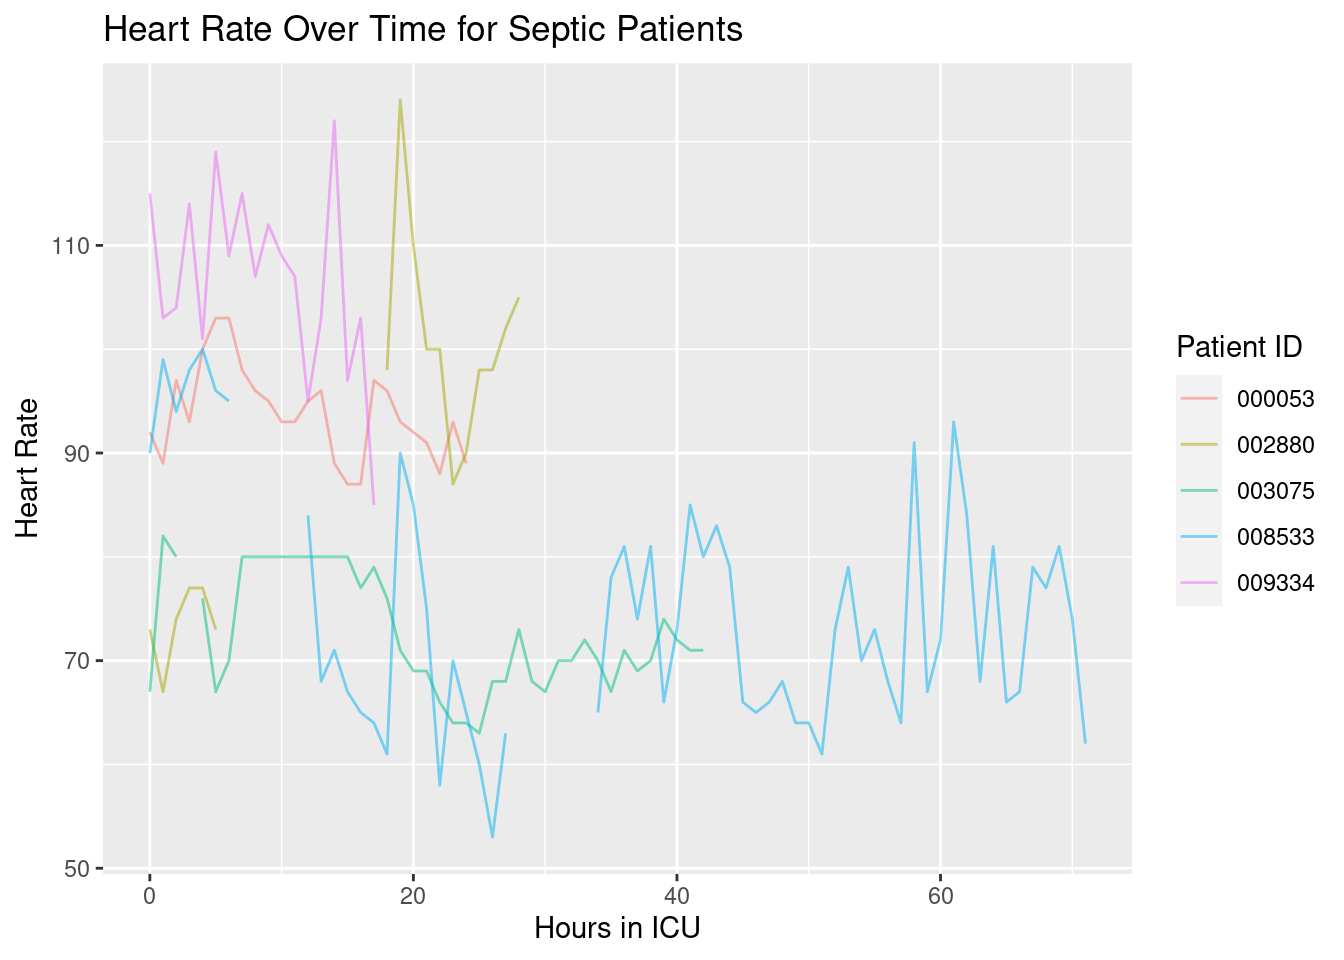
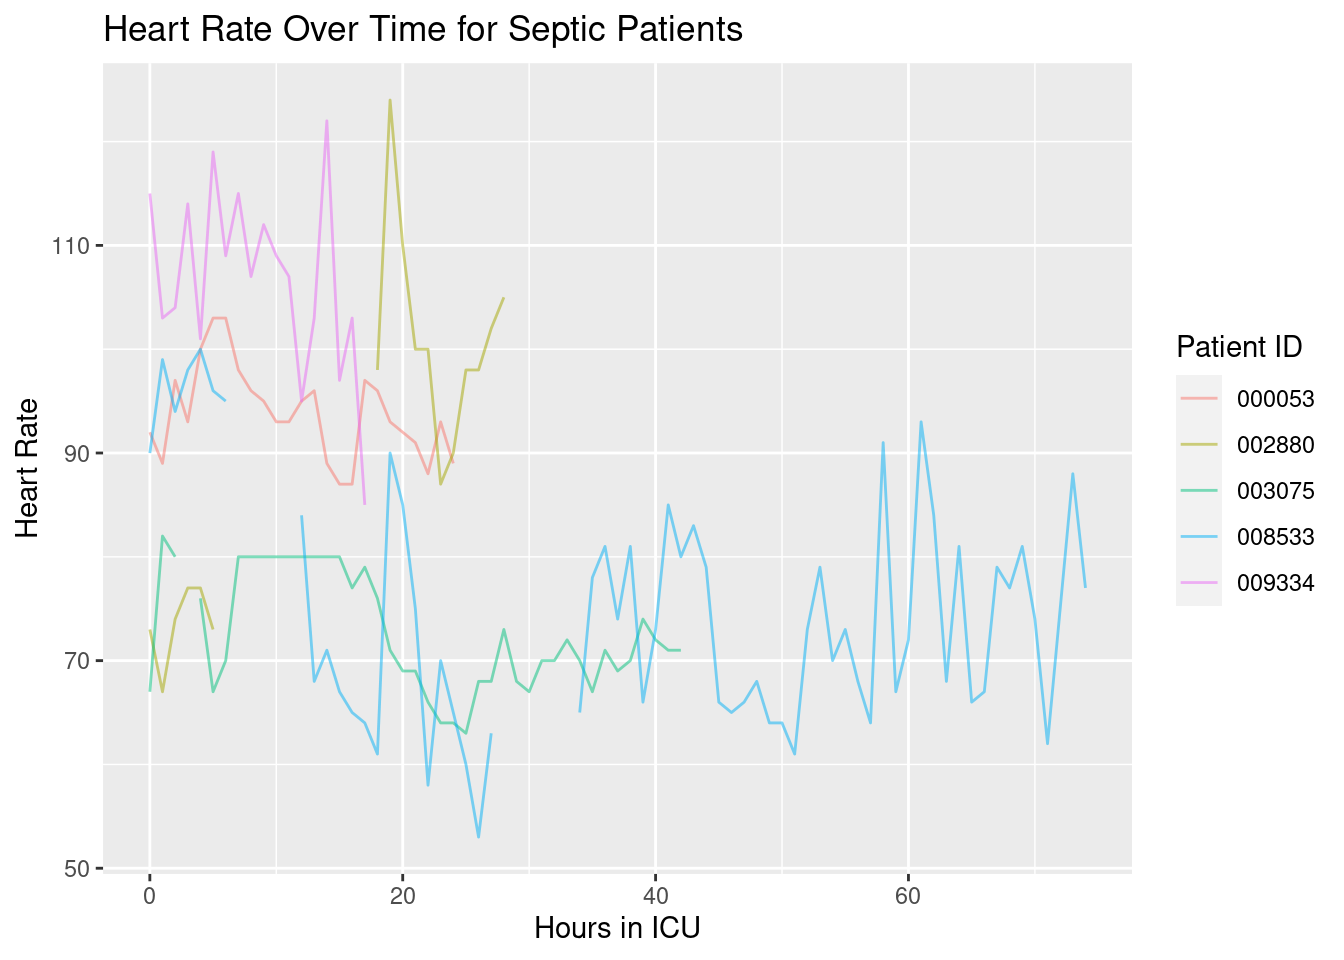
Updated report

diff --git a/icu-status-report.html b/icu-status-report.html
@@ -67,7 +67,7 @@ ul.task-list li input[type="checkbox"] {
 
 </header>
 
-<p>This report was produced at 2023-04-09 16:28:03.</p>
+<p>This report was produced at 2023-04-09 17:19:58.</p>
 <div class="cell">
 <div class="cell-output-display">
 <table class="table table-sm table-striped">
@@ -101,9 +101,9 @@ ul.task-list li input[type="checkbox"] {
 </tr>
 <tr class="even">
 <td style="text-align: left;">008533</td>
-<td style="text-align: right;">62</td>
+<td style="text-align: right;">77</td>
 <td style="text-align: right;">NA</td>
-<td style="text-align: right;">18</td>
+<td style="text-align: right;">24</td>
 </tr>
 <tr class="odd">
 <td style="text-align: left;">009334</td>
@@ -394,8 +394,8 @@ ul.task-list li input[type="checkbox"] {
 <tr class="even">
 <td style="text-align: left;">008533</td>
 <td style="text-align: right;">NA</td>
-<td style="text-align: right;">-12</td>
-<td style="text-align: right;">-1</td>
+<td style="text-align: right;">-11</td>
+<td style="text-align: right;">4</td>
 </tr>
 <tr class="odd">
 <td style="text-align: left;">008752</td>
@@ -412,8 +412,8 @@ ul.task-list li input[type="checkbox"] {
 <tr class="odd">
 <td style="text-align: left;">008867</td>
 <td style="text-align: right;">NA</td>
-<td style="text-align: right;">-18</td>
-<td style="text-align: right;">6</td>
+<td style="text-align: right;">-3</td>
+<td style="text-align: right;">0</td>
 </tr>
 <tr class="even">
 <td style="text-align: left;">009005</td>
